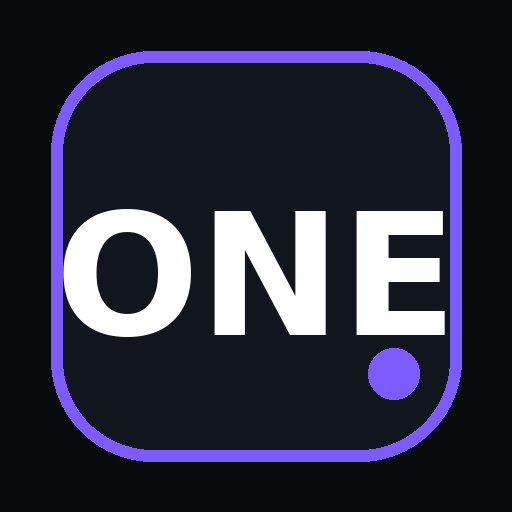
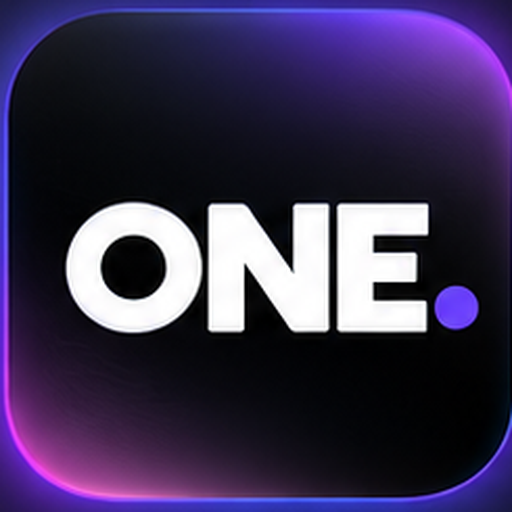
Add files via upload

diff --git a/index.html b/index.html
@@ -3,7 +3,7 @@
 <head>
 <meta charset="utf-8" />
 <meta name="viewport" content="width=device-width,initial-scale=1,viewport-fit=cover" />
-<title>ONE Mobile Alpha 0.2</title>
+<title>ONE Mobile Alpha 0.3</title>
 <meta name="theme-color" content="#07090d" />
 <meta name="apple-mobile-web-app-capable" content="yes" />
 <meta name="apple-mobile-web-app-status-bar-style" content="black-translucent" />
@@ -72,7 +72,7 @@ html{background:#07090d}body{overscroll-behavior-y:none;-webkit-tap-highlight-co
 <body>
 <div class="app">
   <header class="topbar">
-    <div class="brandrow"><div class="brand">ONE<span>.</span><small style="font-size:10px;margin-left:8px;color:#20c997;vertical-align:middle;letter-spacing:0">MOBILE ALPHA 0.2</small></div><button class="accountBtn" id="accountBtn" type="button" aria-label="Compte ONE" title="Compte ONE">👤<span class="accountDot" aria-hidden="true"></span></button></div>
+    <div class="brandrow"><div class="brand">ONE<span>.</span><small style="font-size:10px;margin-left:8px;color:#20c997;vertical-align:middle;letter-spacing:0">MOBILE ALPHA 0.3</small></div><button class="accountBtn" id="accountBtn" type="button" aria-label="Compte ONE" title="Compte ONE">👤<span class="accountDot" aria-hidden="true"></span></button></div>
     <div class="search"><input id="search" placeholder="Gaming, musique, créateur..."/><button id="searchBtn">Chercher</button></div>
     <div class="tabsRail" aria-label="Navigation des onglets">
       <button class="tabsArrow" id="tabsLeft" type="button" aria-label="Onglets précédents">‹</button>
@@ -147,17 +147,17 @@ html{background:#07090d}body{overscroll-behavior-y:none;-webkit-tap-highlight-co
   <div id="aiAnswer" style="margin-top:14px"></div>
   <button class="close" id="closeAi">Fermer</button>
 </div></div>
-<div class="modal" id="accountModal"><div class="sheet"><h3>👤 Compte ONE</h3><p>Centralise tes plateformes ici. Cette Alpha garde encore tes connexions sur cet appareil ; le compte cloud arrivera avec les fondations V19.</p>
+<div class="modal" id="accountModal"><div class="sheet"><h3>👤 Compte ONE</h3><p>Centralise tes plateformes et ton profil ONE. En Alpha 0.3, tu peux sauvegarder/restaurer ton profil local ; la synchronisation cloud nécessite le futur service compte ONE.</p>
   <div class="accountSummary"><div class="accountAvatar">👤</div><div><b>Profil ONE local</b><span id="accountConnectedCount">0 plateforme connectée</span></div></div>
   <div class="platformList">
     <div class="platformRow"><div class="platformIcon">▶</div><div class="platformMeta"><b>YouTube</b><span id="accountYoutubeText">Non configuré</span></div><button class="platformStatus" id="accountYoutubeStatus">Configurer</button></div>
     <div class="platformRow"><div class="platformIcon">🟣</div><div class="platformMeta"><b>Twitch</b><span id="accountTwitchText">Non connecté</span></div><button class="platformStatus" id="accountTwitchStatus">Connecter</button></div>
     <div class="platformRow"><div class="platformIcon">🎵</div><div class="platformMeta"><b>TikTok</b><span id="accountTikTokText">Non connecté</span></div><button class="platformStatus" id="accountTikTokStatus">Connecter</button></div>
   </div>
-  <div class="accountActions"><button class="primary" id="managePlatforms">Gérer les connexions</button><button id="openAdvancedSettings">Réglages avancés</button></div>
+  <div class="accountActions"><button class="primary" id="managePlatforms">Gérer les connexions</button><button id="openAdvancedSettings">Réglages avancés</button></div><div class="accountActions" style="margin-top:8px"><button id="exportOneProfile">Sauvegarder le profil</button><button id="importOneProfile">Restaurer le profil</button><input id="importOneFile" type="file" accept="application/json" hidden></div>
   <button class="close" id="closeAccount">Fermer</button>
 </div></div>
-<div class="modal" id="settingsModal"><div class="sheet"><h3>⚙ Réglages ONE · Mobile Alpha 0.2</h3><p>Ajoute ta clé YouTube Data API v3. Elle reste enregistrée uniquement dans ce navigateur.</p>
+<div class="modal" id="settingsModal"><div class="sheet"><h3>⚙ Réglages ONE · Mobile Alpha 0.3</h3><p>Ajoute ta clé YouTube Data API v3. Elle reste enregistrée uniquement dans ce navigateur.</p>
   <div class="search"><input id="ytKey" type="password" autocomplete="off" placeholder="Colle ta clé YouTube ici"/><button id="saveKey">Enregistrer</button></div>
   <div style="display:flex;gap:8px;margin-top:10px"><button class="action" id="testKey">Tester YouTube</button><button class="action" id="deleteKey">Supprimer la clé</button></div>
   <div id="keyStatus" class="meta" style="margin-top:10px"></div>
@@ -173,7 +173,7 @@ html{background:#07090d}body{overscroll-behavior-y:none;-webkit-tap-highlight-co
   <div style="height:1px;background:var(--line);margin:16px 0"></div>
   <p><b style="color:var(--text)">🎵 TikTok</b><br>Connecte ton compte TikTok Sandbox pour charger tes vidéos publiques autorisées dans ONE.</p>
   <div style="display:flex;gap:8px;margin-top:10px"><button class="action open" id="connectTikTok">🎵 Connecter TikTok</button><button class="action" id="disconnectTikTok">Déconnecter</button></div>
-  <div id="tiktokStatus" class="meta" style="margin-top:10px"></div>
+  <div id="tiktokStatus" class="meta" style="margin-top:10px"></div><div class="hint" style="margin-top:8px">Redirect URI à déclarer pour Twitch et TikTok : <code id="oauthRedirectUri" style="word-break:break-all"></code></div>
   <button class="close" id="closeSettings">Fermer</button>
 </div></div>
 
@@ -593,7 +593,7 @@ function purgeMockContent(){youtubeItems=youtubeItems.filter(x=>!FORBIDDEN_MOCKS
 function twitchLogin(){
  const cid=localStorage.getItem('one_twitch_client_id');
  if(!cid){toast('Ajoute ton identifiant Twitch dans Réglages');document.getElementById('settingsModal').classList.add('show');return}
- const redirect=location.origin+location.pathname;
+ const redirect=new URL(location.pathname,location.origin).href;
  const stateToken=Math.random().toString(36).slice(2)+Date.now().toString(36);
  sessionStorage.setItem('one_twitch_oauth_state',stateToken);localStorage.setItem('one_twitch_oauth_state',stateToken);
  const auth='https://id.twitch.tv/oauth2/authorize?response_type=token&client_id='+encodeURIComponent(cid)+'&redirect_uri='+encodeURIComponent(redirect)+'&scope='+encodeURIComponent('')+'&force_verify=true&state='+encodeURIComponent(stateToken);
@@ -949,11 +949,15 @@ function oneAlphaRefreshAccount(){
 function oneAlphaOpenSettings(){document.getElementById('accountModal')?.classList.remove('show');document.getElementById('profile')?.click()}
 document.getElementById('accountBtn').onclick=()=>{oneAlphaRefreshAccount();document.getElementById('accountModal').classList.add('show')};
 document.getElementById('closeAccount').onclick=()=>document.getElementById('accountModal').classList.remove('show');
+document.getElementById('exportOneProfile').onclick=()=>{const keys=['one_profile_v7','one_feed_prefs_v17_12','one_saved_items','one_liked_v9','one_disliked_v9','one_amazon_affiliate_tag'];const data={version:1,exportedAt:new Date().toISOString(),data:{}};for(const k of keys){const v=localStorage.getItem(k);if(v!==null)data.data[k]=v}const blob=new Blob([JSON.stringify(data,null,2)],{type:'application/json'});const a=document.createElement('a');a.href=URL.createObjectURL(blob);a.download='ONE-profil-backup.json';a.click();setTimeout(()=>URL.revokeObjectURL(a.href),1000);toast('Profil ONE sauvegardé')};
+document.getElementById('importOneProfile').onclick=()=>document.getElementById('importOneFile').click();
+document.getElementById('importOneFile').onchange=async e=>{const f=e.target.files?.[0];if(!f)return;try{const j=JSON.parse(await f.text());if(!j?.data||typeof j.data!=='object')throw new Error();for(const [k,v] of Object.entries(j.data)){if(k.startsWith('one_')&&typeof v==='string')localStorage.setItem(k,v)}toast('Profil restauré · rechargement');setTimeout(()=>location.reload(),500)}catch{toast('Sauvegarde ONE invalide')}};
+
 document.getElementById('accountModal').onclick=e=>{if(e.target.id==='accountModal')e.currentTarget.classList.remove('show')};
 document.getElementById('managePlatforms').onclick=oneAlphaOpenSettings;
 document.getElementById('openAdvancedSettings').onclick=oneAlphaOpenSettings;
 ['accountYoutubeStatus','accountTwitchStatus','accountTikTokStatus'].forEach(id=>{document.getElementById(id).onclick=oneAlphaOpenSettings});
-document.getElementById('profile').onclick=()=>{v1616SyncAmazonTag();const m=document.getElementById('settingsModal');document.getElementById('shoppingApiUrl').value='https://one-shopping-api.moulinanthony60.workers.dev';document.getElementById('shoppingApiStatus').textContent='✅ Shopping Live connecté.';document.getElementById('ytKey').value=localStorage.getItem('one_youtube_api_key')||'';document.getElementById('keyStatus').textContent=localStorage.getItem('one_youtube_api_key')?'✅ Une clé YouTube est enregistrée sur cet appareil.':'Aucune clé enregistrée.';document.getElementById('twitchClientId').value=localStorage.getItem('one_twitch_client_id')||'';document.getElementById('twitchStatus').textContent=localStorage.getItem('one_twitch_token')?'✅ Twitch connecté.':(localStorage.getItem('one_twitch_client_id')?'Identifiant enregistré · connexion nécessaire.':'Aucun identifiant Twitch enregistré.');const ttRaw=JSON.parse(localStorage.getItem('one_tiktok_data')||'null');const ttCount=Array.isArray(ttRaw?.videos)?ttRaw.videos.length:0;document.getElementById('tiktokStatus').textContent=localStorage.getItem('one_tiktok_connected')?`✅ TikTok connecté · ${ttCount} publication(s) chargée(s).`:'TikTok non connecté.';m.classList.add('show')};
+document.getElementById('profile').onclick=()=>{v1616SyncAmazonTag();const m=document.getElementById('settingsModal');document.getElementById('shoppingApiUrl').value='https://one-shopping-api.moulinanthony60.workers.dev';document.getElementById('shoppingApiStatus').textContent='✅ Shopping Live connecté.';const od=document.getElementById('oauthRedirectUri');if(od)od.textContent=new URL(location.pathname,location.origin).href;document.getElementById('ytKey').value=localStorage.getItem('one_youtube_api_key')||'';document.getElementById('keyStatus').textContent=localStorage.getItem('one_youtube_api_key')?'✅ Une clé YouTube est enregistrée sur cet appareil.':'Aucune clé enregistrée.';document.getElementById('twitchClientId').value=localStorage.getItem('one_twitch_client_id')||'';document.getElementById('twitchStatus').textContent=localStorage.getItem('one_twitch_token')?'✅ Twitch connecté.':(localStorage.getItem('one_twitch_client_id')?'Identifiant enregistré · connexion nécessaire.':'Aucun identifiant Twitch enregistré.');const ttRaw=JSON.parse(localStorage.getItem('one_tiktok_data')||'null');const ttCount=Array.isArray(ttRaw?.videos)?ttRaw.videos.length:0;document.getElementById('tiktokStatus').textContent=localStorage.getItem('one_tiktok_connected')?`✅ TikTok connecté · ${ttCount} publication(s) chargée(s).`:'TikTok non connecté.';m.classList.add('show')};
 document.getElementById('closeSettings').onclick=()=>document.getElementById('settingsModal').classList.remove('show');
 document.getElementById('settingsModal').onclick=e=>{if(e.target.id==='settingsModal')e.currentTarget.classList.remove('show')};
 
@@ -972,7 +976,7 @@ readTwitchToken();
 
 
 const TIKTOK_CLIENT_KEY='sbaw7iuxscgibogn4b';
-const TIKTOK_REDIRECT=location.origin+'/tiktok-callback';
+const TIKTOK_REDIRECT=new URL(location.pathname,location.origin).href;
 const TIKTOK_API='https://one-tiktok-api.moulinanthony60.workers.dev';
 function loadTikTokLocal(){
  try{
@@ -1006,6 +1010,7 @@ document.getElementById('connectTikTok').onclick=()=>{document.getElementById('s
 document.getElementById('disconnectTikTok').onclick=()=>{localStorage.removeItem('one_tiktok_connected');localStorage.removeItem('one_tiktok_data');tiktokItems=[];document.getElementById('tiktokStatus').textContent='TikTok déconnecté.';oneAlphaRefreshAccount();render();toast('TikTok déconnecté')};
 loadTikTokLocal();
 const ttParams=new URLSearchParams(location.search);
+if(ttParams.get('error')&&ttParams.get('state')){const expected=sessionStorage.getItem('one_tiktok_oauth_state')||localStorage.getItem('one_tiktok_oauth_state');if(!expected||ttParams.get('state')===expected){toast('TikTok : '+(ttParams.get('error_description')||ttParams.get('error')));}}
 if(ttParams.get('tiktok')==='connected'){localStorage.setItem('one_tiktok_connected','1');loadTikTokLocal();history.replaceState(null,'',location.pathname);const ttRaw=JSON.parse(localStorage.getItem('one_tiktok_data')||'null');const ttCount=Array.isArray(ttRaw?.videos)?ttRaw.videos.length:0;toast(`TikTok connecté · ${ttCount} publication(s) 🎵`);}
 
 document.getElementById('askOne').onclick=()=>{closeVerticalFeed();const m=document.getElementById('aiModal');m.classList.add('show');const sh=m.querySelector('.sheet');if(sh)sh.scrollTop=0};

diff --git a/sw.js b/sw.js
@@ -1,4 +1,4 @@
-const CACHE='one-mobile-alpha-02-v1';
+const CACHE='one-mobile-alpha-03-v1';
 const CORE=['./','./index.html','./manifest.webmanifest','./privacy.html','./terms.html','./icons/icon-192.png','./icons/icon-512.png'];
 self.addEventListener('install',event=>{event.waitUntil(caches.open(CACHE).then(c=>c.addAll(CORE)).then(()=>self.skipWaiting()))});
 self.addEventListener('activate',event=>{event.waitUntil(caches.keys().then(keys=>Promise.all(keys.filter(k=>k!==CACHE).map(k=>caches.delete(k)))).then(()=>self.clients.claim()))});

diff --git a/ALPHA_03_CHANGES.md b/ALPHA_03_CHANGES.md
@@ -1,0 +1,24 @@
+# ONE Mobile Alpha 0.3 — corrections
+
+## Fait dans cette archive
+- Nouvelle icône ONE (192 et 512 px) et cache PWA incrémenté.
+- TikTok : la `redirect_uri` utilise maintenant exactement l'URL de la page PWA déployée au lieu de forcer `/tiktok-callback` à la racine du domaine.
+- Twitch : même URL de redirection canonique, affichée dans les réglages pour pouvoir la déclarer exactement dans la console développeur Twitch.
+- TikTok/Twitch : l'URL OAuth exacte à autoriser est visible dans Réglages avancés.
+- Compte ONE : ajout d'une sauvegarde/restauration du profil local (préférences, likes, sauvegardes, profil). Les jetons OAuth et clés API ne sont volontairement pas exportés.
+- Messages TikTok améliorés en cas de retour OAuth en erreur.
+
+## Configuration externe encore obligatoire
+Les erreurs vues sur les captures ne peuvent pas toutes être corrigées uniquement dans le HTML :
+
+### TikTok
+Dans l'application TikTok for Developers, ajouter **exactement** l'URL affichée par ONE sous « Redirect URI à déclarer ». TikTok exige une correspondance exacte.
+
+### Twitch
+Dans la console développeur Twitch, ajouter la même URL dans **OAuth Redirect URLs**. L'Alpha utilise encore un Client ID local : pour le supprimer de l'interface, il faut déployer un backend/config ONE qui fournisse le Client ID public.
+
+### YouTube
+L'erreur `Requests from referer ... are blocked` vient des restrictions de la clé Google Cloud. Dans les restrictions HTTP referrers de la clé YouTube Data API v3, autoriser le domaine GitHub Pages de ONE (par exemple `https://moulinanthony60-creator.github.io/*`). Pour une version publique, la clé ne devrait pas être saisie par chaque utilisateur : il faut déplacer les appels YouTube derrière un backend ONE avec quotas et protection de clé.
+
+## Compte ONE cloud
+Cette archive n'invente pas un faux cloud : créer réellement un compte multi-appareils et conserver des connexions OAuth exige un backend d'authentification et une base sécurisée. Le bouton de sauvegarde local prépare la migration sans exporter les secrets.
